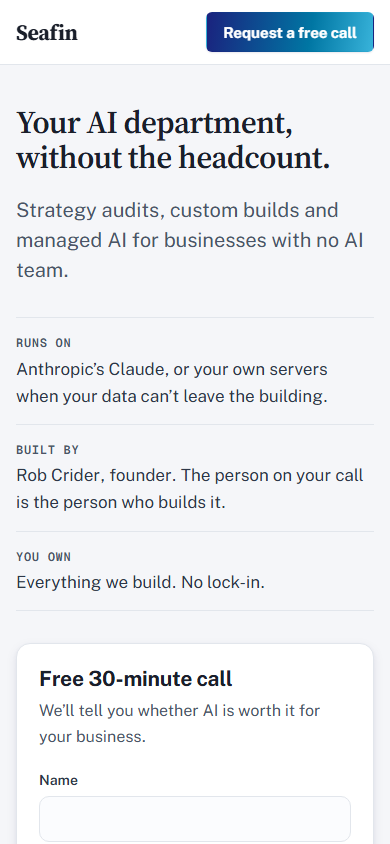
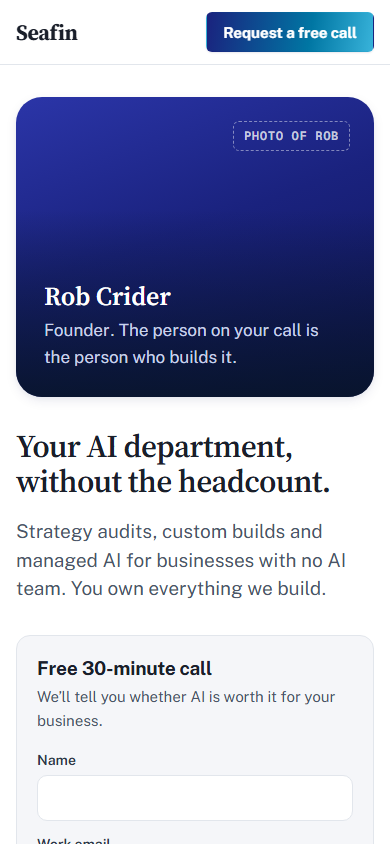
Homepage: founder-portrait hero (direction B from the top-10 study)
Portrait slot beside the headline (placeholder until the photo lands),
compact two-field form, services as an open ruled list, Wardix on a
canvas band, white page. DESIGN.md updated to match.

diff --git a/seafin-site/home.css b/seafin-site/home.css
@@ -58,9 +58,9 @@
 }
 
 *, *::before, *::after { box-sizing: border-box; }
-html { background: var(--bg); scrollbar-color: #a0aec0 var(--bg); }
+html { background: var(--paper); scrollbar-color: #a0aec0 var(--paper); }
 body {
-  margin: 0; background: var(--bg); color: var(--ink-900);
+  margin: 0; background: var(--paper); color: var(--ink-900);
   font: 400 1.0625rem/1.6 var(--font-sans);
   font-variant-numeric: tabular-nums;
   caret-color: var(--tracelet-teal);
@@ -68,8 +68,8 @@ body {
 }
 ::selection { background: var(--tracelet-indigo); color: #fff; }
 ::-webkit-scrollbar { width: 12px; }
-::-webkit-scrollbar-track { background: var(--bg); }
-::-webkit-scrollbar-thumb { background: #a0aec0; border: 3px solid var(--bg); border-radius: 8px; }
+::-webkit-scrollbar-track { background: var(--paper); }
+::-webkit-scrollbar-thumb { background: #a0aec0; border: 3px solid var(--paper); border-radius: 8px; }
 :focus-visible { outline: 2px solid var(--tracelet-teal); outline-offset: 3px; border-radius: 4px; }
 a { color: var(--tracelet-teal); text-underline-offset: 0.2em; text-decoration-thickness: 1px; }
 a:hover { color: var(--tracelet-teal-deep); text-decoration-thickness: 2px; }
@@ -106,40 +106,54 @@ h1, h2, h3 { margin: 0; color: var(--ink-900); }
 .nav .btn { min-height: 40px; padding: 0 16px; }
 
 /* ---------- hero ---------- */
-.hero { padding-block: clamp(40px, 6vw, 88px) clamp(56px, 7vw, 104px); }
-.hero .wrap { display: grid; grid-template-columns: minmax(0, 1.35fr) minmax(0, 1fr); gap: clamp(32px, 5vw, 64px); align-items: center; }
+.hero { padding-block: clamp(32px, 4vw, 56px) clamp(48px, 5vw, 72px); }
+.hero + .section { border-top: 1px solid var(--line); }
+.hero .wrap { display: grid; grid-template-columns: minmax(0, 1.1fr) minmax(0, 1fr); gap: clamp(32px, 5vw, 72px); align-items: stretch; }
+.hero .copy { display: flex; flex-direction: column; justify-content: center; }
 .hero h1 {
-  font: 600 clamp(2.5rem, 4.7vw, 4rem)/1.06 var(--font-serif);
-  letter-spacing: -0.02em; max-width: 20ch; text-wrap: balance;
+  font: 600 clamp(2.5rem, 4.2vw, 3.75rem)/1.05 var(--font-serif);
+  letter-spacing: -0.02em; text-wrap: balance;
 }
-.lede { margin-top: 20px; max-width: 44ch; font-size: 1.25rem; line-height: 1.5; color: var(--ink-500); }
-.facts { margin: 32px 0 0; max-width: 560px; }
-.facts > div { display: grid; grid-template-columns: 6.5rem 1fr; gap: 16px; padding-block: 14px; border-top: 1px solid var(--line); }
-.facts > div:last-child { border-bottom: 1px solid var(--line); }
-.facts dt { font: 600 0.75rem/1.6 var(--font-mono); letter-spacing: 0.06em; text-transform: uppercase; color: var(--ink-500); padding-top: 2px; }
-.facts dd { margin: 0; color: var(--ink-700); }
+.lede { margin-top: 18px; max-width: 44ch; font-size: 1.1875rem; line-height: 1.5; color: var(--ink-500); }
 
-/* the form panel: the one action */
+/* the form panel: the one action, compact: two fields side by side */
 .book {
-  background: var(--paper); border: 1px solid var(--line); border-radius: var(--r-panel);
-  box-shadow: var(--shadow-2); padding: clamp(22px, 2.4vw, 32px);
+  margin-top: 32px; padding: clamp(20px, 2vw, 26px);
+  background: var(--bg); border: 1px solid var(--line); border-radius: var(--r-panel);
   transition: border-color 400ms ease-out, box-shadow 400ms ease-out;
 }
-.book h2 { font: 700 1.3125rem/1.25 var(--font-sans); letter-spacing: -0.01em; }
-.book .sub { margin-top: 6px; color: var(--ink-500); font-size: 1rem; }
-.book form { display: grid; gap: 16px; margin-top: 22px; }
+.book h2 { font: 700 1.1875rem/1.3 var(--font-sans); letter-spacing: -0.01em; }
+.book .sub { margin-top: 4px; color: var(--ink-500); font-size: 0.9375rem; }
+.book form { display: grid; grid-template-columns: minmax(0, 1fr) minmax(0, 1fr); gap: 14px; margin-top: 18px; }
+.book form .btn, .book form .status { grid-column: 1 / -1; }
 .book label { display: grid; gap: 6px; font: 600 0.875rem/1.3 var(--font-sans); color: var(--ink-700); }
 .book label .opt { font-weight: 400; color: var(--ink-500); }
 .book input, .book textarea {
   width: 100%; font: 400 1rem/1.4 var(--font-sans); color: var(--ink-900);
-  background: var(--paper-2); border: 1px solid var(--line); border-radius: var(--r-input);
+  background: var(--paper); border: 1px solid var(--line); border-radius: var(--r-input);
   padding: 11px 13px; transition: border-color 140ms ease-out, box-shadow 140ms ease-out;
 }
 .book input { min-height: 46px; }
 .book textarea { min-height: 84px; resize: vertical; }
 .book input:hover, .book textarea:hover { border-color: var(--line-strong); }
 .book input:focus-visible, .book textarea:focus-visible { outline: none; border-color: var(--tracelet-teal); box-shadow: 0 0 0 3px var(--tracelet-teal-tint); }
-.book .btn { width: 100%; min-height: 48px; font-size: 1rem; margin-top: 4px; }
+.book .btn { width: 100%; min-height: 48px; font-size: 1rem; }
+
+/* the portrait: a person on the first screen */
+.portrait {
+  position: relative; margin: 0; min-height: 540px; overflow: hidden;
+  border-radius: var(--r-media); box-shadow: var(--shadow-2);
+  background: linear-gradient(160deg, #2b35a8 0%, var(--tracelet-indigo) 45%, var(--tracelet-indigo-deep) 100%);
+}
+.portrait img { position: absolute; inset: 0; width: 100%; height: 100%; object-fit: cover; }
+.portrait .placeholder {
+  position: absolute; top: 24px; right: 24px; padding: 8px 10px;
+  font: 600 0.75rem/1 var(--font-mono); letter-spacing: 0.06em; text-transform: uppercase;
+  color: rgba(255, 255, 255, 0.75); border: 1px dashed rgba(255, 255, 255, 0.45); border-radius: var(--r-control);
+}
+.portrait figcaption { position: absolute; inset: auto 0 0 0; padding: 72px 28px 26px; background: linear-gradient(180deg, transparent, rgba(7, 20, 38, 0.85)); color: #fff; }
+.portrait .name { font: 600 1.625rem/1.2 var(--font-serif); color: #fff; }
+.portrait .role { margin-top: 4px; max-width: 38ch; color: #c9d2ea; }
 .hp { position: absolute; left: -9999px; width: 1px; height: 1px; opacity: 0; }
 .status { font-size: 0.9375rem; color: var(--ink-700); }
 .status:empty { display: none; }
@@ -152,15 +166,14 @@ h1, h2, h3 { margin: 0; color: var(--ink-900); }
 .section { padding-block: clamp(64px, 8vw, 112px); }
 .section + .section { border-top: 1px solid var(--line); }
 .section h2 { font: 600 clamp(1.875rem, 3vw, 2.5rem)/1.12 var(--font-serif); letter-spacing: -0.015em; }
-.stack > h2 { margin-bottom: clamp(24px, 3vw, 36px); }
 .head-row { display: grid; grid-template-columns: minmax(0, 1fr) minmax(0, 1.6fr); gap: 24px clamp(32px, 5vw, 72px); align-items: start; }
 
 .panel { background: var(--paper); border: 1px solid var(--line); border-radius: var(--r-panel); box-shadow: var(--shadow-1); }
 
 /* services: a ruled list, not a card grid */
 .offers { margin: 0; padding: 0; list-style: none; }
-.offers li { display: grid; grid-template-columns: minmax(0, 13rem) minmax(0, 1fr); gap: 6px 32px; padding: 26px 28px; }
-.offers li + li { border-top: 1px solid var(--line-soft); }
+.offers li { display: grid; grid-template-columns: minmax(0, 12rem) minmax(0, 1fr); gap: 6px 32px; padding-block: 22px; border-top: 1px solid var(--line); }
+.offers li:last-child { border-bottom: 1px solid var(--line); }
 .offers h3 { font: 700 1.1875rem/1.3 var(--font-sans); }
 .term { display: block; margin-top: 6px; font: 600 0.75rem/1.5 var(--font-mono); letter-spacing: 0.06em; text-transform: uppercase; color: var(--tracelet-teal); }
 .offers p { color: var(--ink-500); max-width: 60ch; }
@@ -173,7 +186,8 @@ h1, h2, h3 { margin: 0; color: var(--ink-900); }
 .compare p { color: var(--ink-500); }
 .compare .fit { grid-column: 1 / -1; margin: 0; padding: 16px 28px; border-top: 1px solid var(--line-soft); color: var(--ink-700); }
 
-/* wardix: product proof */
+/* wardix: product proof, on its own band */
+.band { background: var(--bg); }
 .product-top { display: grid; grid-template-columns: minmax(0, 1fr) minmax(0, 1fr); gap: 20px clamp(32px, 5vw, 72px); align-items: end; }
 .product-top .line { margin-top: 14px; font-size: 1.1875rem; line-height: 1.5; color: var(--ink-500); max-width: 40ch; }
 .chips { display: flex; flex-wrap: wrap; gap: 8px 12px; margin: 0 0 20px; padding: 0; list-style: none; font: 600 0.9375rem/1.5 var(--font-sans); color: var(--ink-700); }
@@ -219,7 +233,7 @@ h1, h2, h3 { margin: 0; color: var(--ink-900); }
 /* ---------- responsive ---------- */
 @media (max-width: 960px) {
   .hero .wrap, .head-row, .product-top, .duo { grid-template-columns: 1fr; }
-  .hero h1 { max-width: none; }
+  .portrait { order: -1; min-height: 400px; }
 }
 @media (max-width: 760px) {
   .nav ul { display: none; }
@@ -227,7 +241,7 @@ h1, h2, h3 { margin: 0; color: var(--ink-900); }
   .compare { grid-template-columns: 1fr; }
   .compare > div + div { border-left: 0; border-top: 1px solid var(--line-soft); }
   .offers li, .projects li { grid-template-columns: 1fr; }
-  .offers li, .compare > div, .compare .fit { padding-inline: 20px; }
+  .compare > div, .compare .fit { padding-inline: 20px; }
 }
 @media (max-width: 560px) {
   .chips { flex-direction: column; gap: 4px; }
@@ -235,7 +249,8 @@ h1, h2, h3 { margin: 0; color: var(--ink-900); }
 }
 @media (max-width: 480px) {
   .hero h1 { font-size: 2rem; line-height: 1.1; }
-  .facts > div { grid-template-columns: 1fr; gap: 2px; }
+  .book form { grid-template-columns: 1fr; }
+  .portrait { min-height: 300px; }
   .close .actions { width: 100%; }
   .close .btn { width: 100%; }
 }

diff --git a/seafin-site/index.html b/seafin-site/index.html
@@ -35,35 +35,38 @@
 <main>
   <section class="hero" aria-labelledby="hero-title">
     <div class="wrap">
-      <div>
+      <div class="copy">
         <h1 id="hero-title">Your AI department, without the headcount.</h1>
-        <p class="lede">Strategy audits, custom builds and managed AI for businesses with no AI team.</p>
-        <dl class="facts">
-          <div><dt>Runs on</dt><dd>Anthropic&rsquo;s Claude, or your own servers when your data can&rsquo;t leave the building.</dd></div>
-          <div><dt>Built by</dt><dd>Rob Crider, founder. The person on your call is the person who builds it.</dd></div>
-          <div><dt>You own</dt><dd>Everything we build. No lock-in.</dd></div>
-        </dl>
+        <p class="lede">Strategy audits, custom builds and managed AI for businesses with no AI team. You own everything we build.</p>
+
+        <div class="book" id="book">
+          <h2 id="book-title">Free 30-minute call</h2>
+          <p class="sub">We&rsquo;ll tell you whether AI is worth it for your business.</p>
+          <form id="request" aria-labelledby="book-title" novalidate>
+            <label>Name<input id="f-name" name="name" autocomplete="name" maxlength="120" required></label>
+            <label>Work email<input name="email" type="email" autocomplete="email" maxlength="200" required></label>
+            <input class="hp" name="company_website" tabindex="-1" autocomplete="off" aria-hidden="true">
+            <button class="btn btn-primary" type="submit">Request a free call</button>
+            <p class="status" role="status" aria-live="polite"></p>
+          </form>
+        </div>
       </div>
 
-      <div class="book" id="book">
-        <h2 id="book-title">Free 30-minute call</h2>
-        <p class="sub">We&rsquo;ll tell you whether AI is worth it for your business.</p>
-        <form id="request" aria-labelledby="book-title" novalidate>
-          <label>Name<input id="f-name" name="name" autocomplete="name" maxlength="120" required></label>
-          <label>Work email<input name="email" type="email" autocomplete="email" maxlength="200" required></label>
-          <label><span>What would you hand off first? <span class="opt">Optional</span></span><textarea name="message" rows="3" maxlength="500"></textarea></label>
-          <input class="hp" name="company_website" tabindex="-1" autocomplete="off" aria-hidden="true">
-          <button class="btn btn-primary" type="submit">Request a free call</button>
-          <p class="status" role="status" aria-live="polite"></p>
-        </form>
-      </div>
+      <figure class="portrait">
+        <!-- TODO before launch: replace the placeholder with <img src="assets/founder.jpg" alt="Rob Crider" width="…" height="…"> -->
+        <span class="placeholder">Photo of Rob</span>
+        <figcaption>
+          <p class="name">Rob Crider</p>
+          <p class="role">Founder. The person on your call is the person who builds it.</p>
+        </figcaption>
+      </figure>
     </div>
   </section>
 
   <section class="section" id="services" aria-labelledby="services-title">
-    <div class="wrap stack">
+    <div class="wrap head-row">
       <h2 id="services-title">Services</h2>
-      <ul class="offers panel">
+      <ul class="offers">
         <li>
           <div><h3>Strategy Audit</h3><span class="term">1 week</span></div>
           <p>A 90-minute working session on how your business runs, then a written report: your top three AI opportunities, what each would save, and a 90-day plan. Yours to keep either way.</p>
@@ -99,7 +102,7 @@
     </div>
   </section>
 
-  <section class="section" id="wardix" aria-labelledby="wardix-title">
+  <section class="section band" id="wardix" aria-labelledby="wardix-title">
     <div class="wrap">
       <div class="product-top">
         <div>

diff --git a/DESIGN.md b/DESIGN.md
@@ -125,16 +125,16 @@ components:
 
 Seafin does not have its own visual world. By the user's standing pin (PRODUCT.md, Brand Commitments), Seafin's site uses the Wardix design system: `tracelet` repo `design.md` on `origin/dev` ("Vigilant Infrastructure") for doctrine, and `tracelet-vendor/pages/css/tracelet-landing.css` for token values. This file records how that system landed on Seafin, and where Seafin departs from the Wardix marketing site. When this file is silent, the upstream `design.md` governs; when they disagree, this file records what Seafin shipped.
 
-The page should look like it comes from the same company as Wardix: a light cool canvas, white panels with hairline borders and quiet indigo-tinted shadows, serif page headings, sans everything else, and one gradient button. Restraint carries the premium feel. Density is moderate: generous section spacing around compact, scannable content (ruled lists, fact rows, a single form).
+The page should look like it comes from the same company as Wardix: a white page with cool canvas bands, hairline borders and quiet indigo-tinted shadows, serif page headings, sans everything else, and one gradient button. Restraint carries the premium feel. Density is moderate: generous section spacing around compact, scannable content (ruled lists, a single form).
 
-Seafin departs from the Wardix marketing site in four places, each on purpose. There are no mono labels above headings, because Impeccable's craft floor bans them. There is no scenic hero photograph: the Wardix landscape library would make Seafin read as a copy of the Wardix site, so Seafin's only imagery is the real Wardix product screenshot, shown as proof. Resting panels use the light and medium shadows only; the strong shadow is kept for overlays, as upstream `design.md` says. And the gradient is narrowed to the single primary action.
+Seafin departs from the Wardix marketing site in four places, each on purpose. There are no mono labels above headings, because Impeccable's craft floor bans them. There is no scenic hero photograph: the Wardix landscape library would make Seafin read as a copy of the Wardix site. Seafin's imagery is a portrait of the founder in the hero (borrowed from IBM and KPMG, chosen 2026-10-04; the photo is still to come) and the real Wardix product screenshot, shown as proof. Resting panels use the light and medium shadows only; the strong shadow is kept for overlays, as upstream `design.md` says. And the gradient is narrowed to the single primary action.
 
 **Key Characteristics:**
-- Light canvas, white panels, hairline borders, cool indigo-tinted shadows; dark mode from the same token pairs.
+- White page, canvas bands and panel fills, hairline borders, cool indigo-tinted shadows; dark mode from the same token pairs.
 - Source Serif 4 for page-level headings, Public Sans for everything readable, Geist Mono only for short functional labels.
 - One radius family: 6 / 10 / 14 / 26.
 - One action per page, one label for it, one gradient on it.
-- Real product screenshots are the only imagery; no scenic photography, no invented proof.
+- A real person and a real product are the only imagery; no scenic photography, no invented proof.
 
 ## Colors
 
@@ -155,15 +155,15 @@ Neutral cool surfaces with one control color (indigo), one accent (teal), and a 
 
 ### Neutral
 - **Ink 900 / 700 / 500** (`ink-900`, `ink-700`, `ink-500`): headings and primary text / fact values, field labels and about text / secondary text, ledes, nav links. Dark pairs #e9ecf6 / #cdd3e6 / #9aa3c0.
-- **Canvas** (`bg`): page background. Dark pair #0b0e1a.
-- **Paper** (`paper`) and **Paper 2** (`paper-2`): panels and buttons / input fills. Dark pairs #121732 / #0f1430.
-- **Line** (`line`): panel borders, section dividers, fact-row rules. Dark #262c44.
+- **Canvas** (`bg`): the Wardix band and the form panel fill. Dark pair #0b0e1a.
+- **Paper** (`paper`) and **Paper 2** (`paper-2`): page background, panels, buttons and input fills / spare. Dark pairs #121732 / #0f1430.
+- **Line** (`line`): panel borders, section dividers, service-row rules. Dark #262c44.
 - **Line Soft** (`line-soft`): dividers inside a panel (between service rows, between compare columns). Dark #1e2438.
 - **Line Strong** (`line-strong`): hover border on inputs and secondary buttons. Seafin's addition, not in the upstream token set. Dark #3a4466.
 - **Danger** (`danger`): form error text only. Dark #ff8a80. Seafin's name for upstream's critical red.
 
 ### Named Rules
-**The One Gradient Rule.** The indigo-to-teal gradient appears only on the primary action, "Request a free call" (nav, form submit, closing band). Not on text, cards, section backgrounds, or a second button. Upstream allows it on hero treatments and thin accents; Seafin does not use it there. The favicon tile is the only non-button use.
+**The One Gradient Rule.** The indigo-to-teal gradient appears only on the primary action, "Request a free call" (nav, form submit, closing band). Not on text, cards, section backgrounds, or a second button. Upstream allows it on hero treatments and thin accents; Seafin does not use it there. The favicon tile is the only non-button use. The portrait placeholder's indigo field is not the brand gradient, and the photo covers it.
 
 **The Status-Means-State Rule.** Green, gold and red mean real system state. Seafin uses only red, and only for a failed form send.
 
@@ -178,31 +178,31 @@ All three are self-hosted WOFF2 files in `seafin-site/fonts`, using `font-displa
 **Character:** an editorial serif for the page's few big statements, over a plain, sturdy civic sans that does all the reading. Tabular numerals are on across the whole body.
 
 ### Hierarchy
-- **Display** (600, clamp(2.5rem, 4.7vw, 4rem), 1.06, -0.02em): the hero H1 only. Balanced wrap, max 20ch. Drops to 2rem / 1.1 at ≤480px.
+- **Display** (600, clamp(2.5rem, 4.2vw, 3.75rem), 1.05, -0.02em): the hero H1 only. Balanced wrap. Drops to 2rem / 1.1 at ≤480px. The founder name on the portrait uses the same face at 1.625rem / 1.2.
 - **Headline** (600, clamp(1.875rem, 3vw, 2.5rem), 1.12, -0.015em): section H2s and the closing-band H2.
-- **Title** (Public Sans 700, 1.1875rem, 1.3): H3s in service rows, the compare panel, and the founder name. The form panel heading is the same family at 1.3125rem / 1.25 with -0.01em tracking; project names use 1.0625rem / 1.4.
-- **Lede** (400, 1.25rem, 1.5, ink-500, max 44ch): the hero sentence. The product line under the Wardix heading is a smaller version (1.1875rem, max 40ch).
+- **Title** (Public Sans 700, 1.1875rem, 1.3): H3s in service rows, the compare panel, and the founder name. The form panel heading is the same size with -0.01em tracking; project names use 1.0625rem / 1.4.
+- **Lede** (400, 1.1875rem, 1.5, ink-500, max 44ch): the hero sentence. The product line under the Wardix heading is a smaller version (1.1875rem, max 40ch).
 - **Body** (400, 1.0625rem, 1.6): running text. Measure is 54 to 60ch.
-- **Label** (Geist Mono 600, 0.75rem, 0.06em, uppercase): fact-row terms ("Runs on", "Built by", "You own") and the duration tags under service titles.
-- **Field label** (Public Sans 600, 0.875rem, 1.3, ink-700): form labels; "Optional" drops to weight 400, ink-500.
+- **Label** (Geist Mono 600, 0.75rem, 0.06em, uppercase): the duration tags under service titles.
+- **Field label** (Public Sans 600, 0.875rem, 1.3, ink-700): form labels.
 
 ### Named Rules
 **The Serif-Is-For-The-Page Rule.** Serif is for page-level headings: the H1 and section H2s. Panel and card titles, including the form panel heading, are Public Sans bold.
 
-**The Mono-Labels-Below Rule.** Geist Mono uppercase labels are short and functional: definition-list terms, and duration tags placed beneath their title. A mono label never sits above a heading.
+**The Mono-Labels-Below Rule.** Geist Mono uppercase labels are short and functional: duration tags placed beneath their title. A mono label never sits above a heading.
 
 ## Layout
 
-Single column centered at 1180px max width with a gutter of clamp(16px, 4vw, 32px). Sections pad clamp(64px, 8vw, 112px) top and bottom and are separated by a 1px line. The hero pads a little less (clamp(40px, 6vw, 88px) top, clamp(56px, 7vw, 104px) bottom).
+Single column centered at 1180px max width with a gutter of clamp(16px, 4vw, 32px). Sections pad clamp(64px, 8vw, 112px) top and bottom and are separated by a 1px line. The hero pads less (clamp(32px, 4vw, 56px) top, clamp(48px, 5vw, 72px) bottom) and is closed by a 1px line.
 
-The hero is an asymmetric split, 1.35fr / 1fr (about 57/43): the heading, lede and fact list on the left; the working form panel on the right as the one action. The sections below deliberately change shape instead of repeating one template:
-1. A heading stacked over a full-width panel (Services).
-2. A heading beside its content, 1fr / 1.6fr (Where it runs).
-3. A two-column heading/facts row over a full-width product screenshot (Wardix).
+The hero is a split, 1.1fr / 1fr: the heading, lede and compact form panel on the left; the founder portrait on the right, stretched to the height of the left column. The sections below change shape instead of repeating one template:
+1. A heading beside an open ruled list, 1fr / 1.6fr (Services).
+2. A heading beside one panel, 1fr / 1.6fr (Where it runs).
+3. A two-column heading/facts row over a full-width product screenshot, on a Canvas band (Wardix).
 4. A two-column split of equal peers (Who you work with + Other projects).
 5. A full-bleed bastion band with the heading and actions on one line (closing).
 
-Breakpoints: at ≤960px every two-column grid collapses to one column. At ≤760px nav links hide, the compare panel stacks, and list rows go single-column with 20px side padding. At ≤560px the product screenshot swaps to a mobile crop and the fact dots drop. At ≤480px the hero type steps down, fact rows stack, and closing-band buttons go full width.
+Breakpoints: at ≤960px every two-column grid collapses to one column and the portrait moves above the heading at 400px tall. At ≤760px nav links hide, the compare panel stacks, and list rows go single-column. At ≤560px the product screenshot swaps to a mobile crop and the fact dots drop. At ≤480px the hero type steps down, the two form fields stack, the portrait shortens to 300px, and closing-band buttons go full width.
 
 ## Elevation & Depth
 
@@ -210,11 +210,11 @@ A hybrid: hairline borders do the separating, and quiet indigo-tinted shadows (r
 
 ### Shadow Vocabulary
 - **Resting** (`box-shadow: 0 1px 2px rgba(15, 21, 86, 0.06), 0 1px 3px rgba(15, 21, 86, 0.04)`): content panels and buttons at rest.
-- **Raised** (`box-shadow: 0 4px 12px rgba(15, 21, 86, 0.08), 0 2px 4px rgba(15, 21, 86, 0.04)`): the form panel, the screenshot frame, and button hover. Dark: `0 4px 14px rgba(0, 0, 0, 0.4)`.
+- **Raised** (`box-shadow: 0 4px 12px rgba(15, 21, 86, 0.08), 0 2px 4px rgba(15, 21, 86, 0.04)`): the portrait, the screenshot frame, and button hover. Dark: `0 4px 14px rgba(0, 0, 0, 0.4)`.
 - **Overlay** (`box-shadow: 0 14px 32px rgba(15, 21, 86, 0.1), 0 4px 12px rgba(15, 21, 86, 0.05)`): defined but unused on this page. Kept for menus and dialogs.
 
 ### Named Rules
-**The Quiet Elevation Rule.** Resting surfaces never use the Overlay shadow. Only the action panel and the product image use Raised at rest.
+**The Quiet Elevation Rule.** Resting surfaces never use the Overlay shadow. Only the two images, the portrait and the product screenshot, use Raised at rest. The form panel is flat: a Canvas fill and a Line border set it apart.
 
 ## Shapes
 
@@ -229,7 +229,7 @@ One radius family, matching upstream: 6px for buttons and small controls, 10px f
 - **Secondary:** paper fill, ink-900 text, Line border, Resting shadow; on hover the border goes Line Strong and the shadow Raised. Used for the outbound "Get Wardix free" link.
 
 ### Inputs / Fields
-- **Style:** Paper 2 fill, 1px Line border, 10px radius, padding 11px 13px, min height 46px (textarea 84px, resizes vertically). Labels sit above the field, 6px apart.
+- **Style:** Paper fill (white on the Canvas form panel), 1px Line border, 10px radius, padding 11px 13px, min height 46px. Labels sit above the field, 6px apart.
 - **Focus:** the border turns teal and a 3px Teal Tint halo appears; no outline. Hover sets the border to Line Strong. 140ms ease-out.
 - **Error:** one line of Danger-colored status text below the button, with a mailto fallback.
 
@@ -238,17 +238,17 @@ One radius family, matching upstream: 6px for buttons and small controls, 10px f
 - **Background:** Paper, with a 1px Line border.
 - **Shadow Strategy:** Resting (see Elevation).
 - **Internal Padding:** 28px horizontal (20px at ≤760px), 26 to 28px vertical.
-- **Ruled list, not a card grid:** related items (services) sit as rows in one panel, divided by Line Soft. They are never split into separate cards. Each row puts the title and duration tag beside the description (13rem / 1fr). A two-option comparison is one panel with a vertical Line Soft divider and a full-width footer row.
+- **Ruled list, not a card grid:** related items (services) sit as open rows ruled with Line, top and bottom, beside their heading. They are never split into separate cards. Each row puts the title and duration tag beside the description (12rem / 1fr). A two-option comparison is one panel with a vertical Line Soft divider and a full-width footer row.
 
 ### Navigation
 - Sticky, 64px tall, Paper at 94% with a 10px backdrop blur and a bottom Line border. Serif wordmark "Seafin" (700, 1.375rem, -0.02em). Links are Public Sans 500 0.9375rem in ink-500 and turn ink-900 on hover. The primary button sits at the right.
 - On this one-page build, links hide at ≤760px with no menu replacement. The primary button stays in the header.
 
 ### Form Panel (signature)
-The one action, in the first viewport. A white 14px panel with a Raised shadow, padded clamp(22px, 2.4vw, 32px). It holds a sans title, a one-line subhead, three labelled fields (one optional), a full-width primary button, and an `aria-live` status line. On a successful send, the fields disable, the button hides, the panel border warms to teal with a 3px Teal Tint halo (400ms ease-out), and the confirmation fades up 4px (420ms, cubic-bezier(0.16, 1, 0.3, 1)). Every "Request a free call" link scrolls to this panel and focuses the first field. Nothing else on the page animates beyond hover and focus. All motion turns off under prefers-reduced-motion.
+The one action, in the first viewport under the lede. A flat 14px panel with a Canvas fill and Line border, padded clamp(20px, 2vw, 26px). It holds a sans title, a one-line subhead, two labelled fields side by side (name, work email; stacked at ≤480px), a full-width primary button, and an `aria-live` status line. On a successful send, the fields disable, the button hides, the panel border warms to teal with a 3px Teal Tint halo (400ms ease-out), and the confirmation fades up 4px (420ms, cubic-bezier(0.16, 1, 0.3, 1)). Every "Request a free call" link scrolls to this panel and focuses the first field. Nothing else on the page animates beyond hover and focus. All motion turns off under prefers-reduced-motion.
 
-### Fact Rows
-A definition list ruled top and bottom with Line. Each row has a 6.5rem mono label column and an ink-700 value; rows stack at ≤480px.
+### Portrait
+The founder photo beside the hero copy: 26px radius, Raised shadow, at least 540px tall, the image set to cover. A navy scrim (transparent to rgba(7, 20, 38, 0.85)) at the foot carries the serif name and a one-line role in #c9d2ea. Until the photo lands, an indigo field and a dashed "Photo of Rob" tag hold the slot; the page does not launch with the tag showing.
 
 ### Product Facts
 Short facts set inline in Public Sans 600 and separated by 4px teal dots. These are not chips or pills. They stack and lose the dots at ≤560px.
